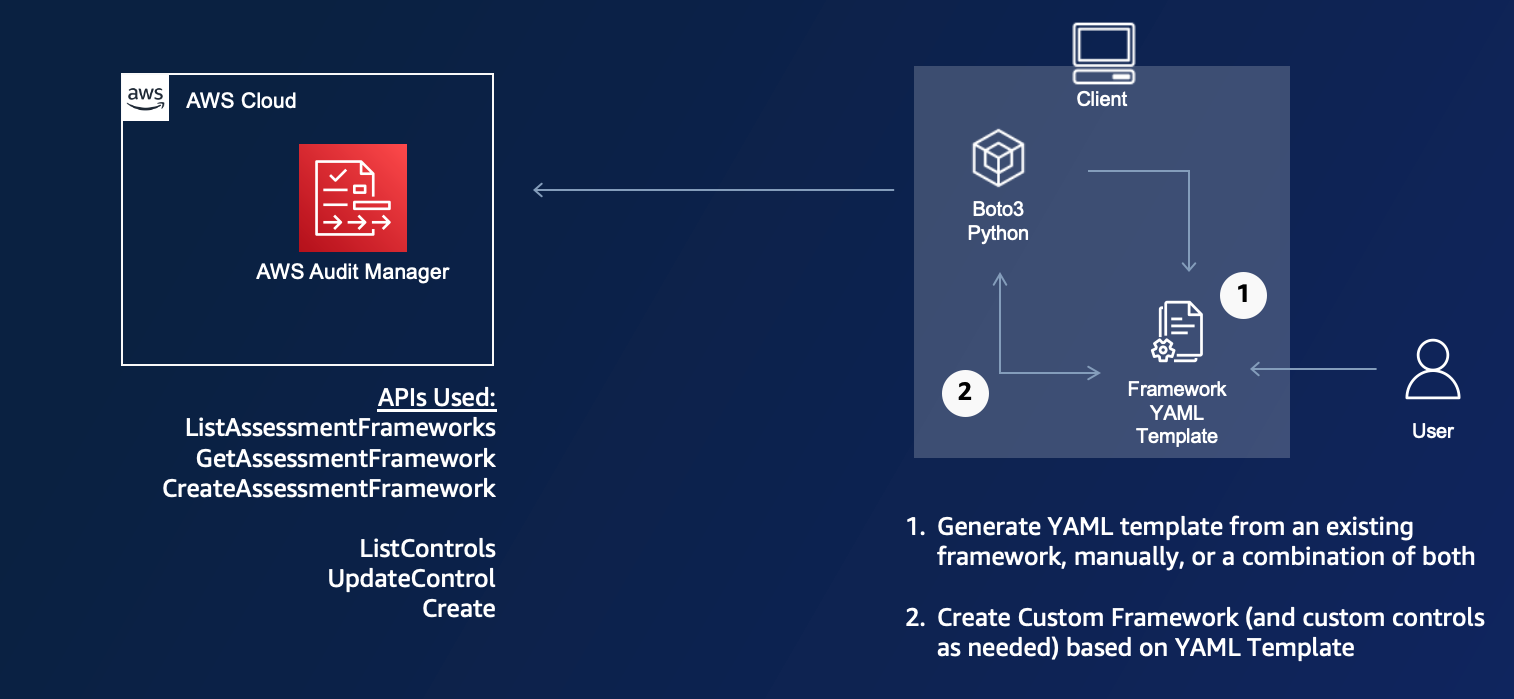
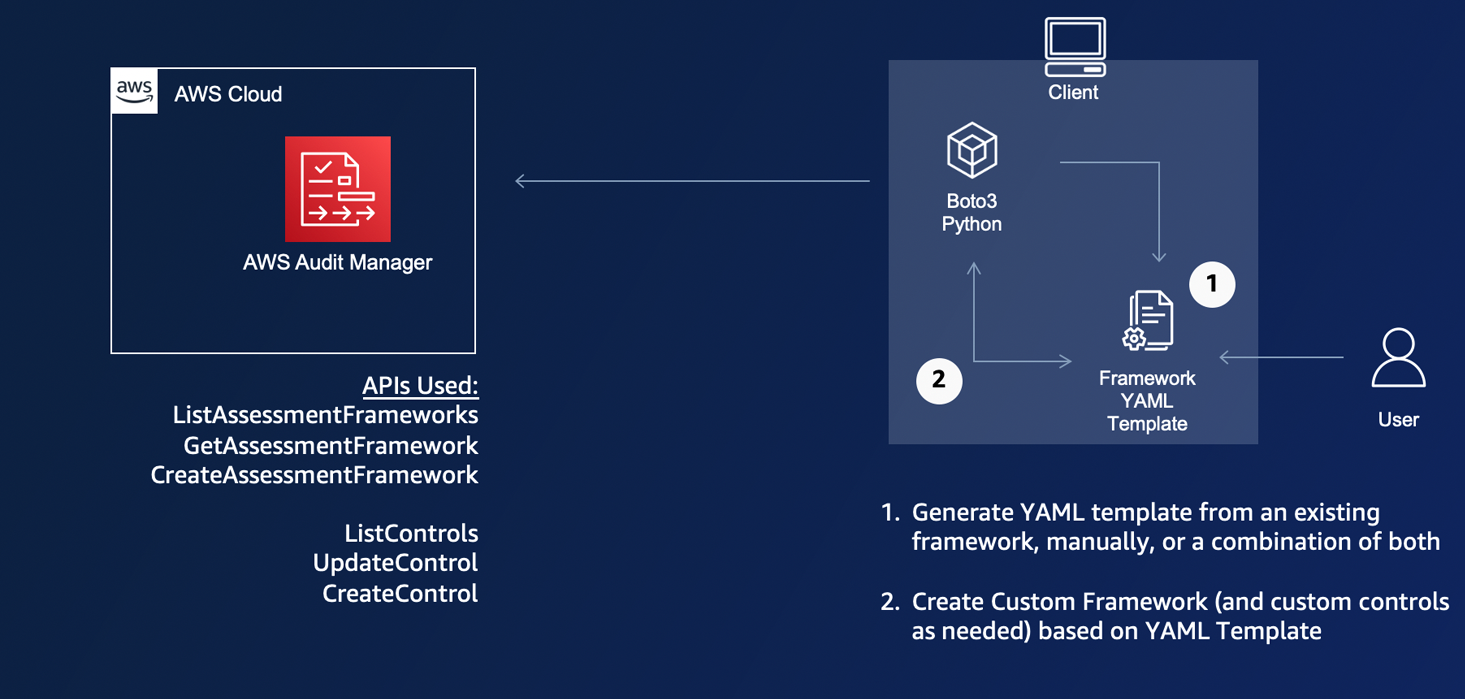
Corrected an image file and added requirements.txt

diff --git a/README.md b/README.md
@@ -73,7 +73,10 @@ $ python customFramework.py --jobName Generate-YAML-Framework --existingFramewor
 1. Have an AWS account with Audit Manager enabled
 2. Confirm you have an environment to make AWS API calls with. (Cloud9 or local)
 3. Clone the provided sample code to your working environment (local computer or cloud9) (LINK)
-4. Ensure you have updated Python (Specifically version 3.5 or higher), Boto3, and Botocore installed in the environment
+4. Ensure you have updated Python (Specifically version 3.5 or higher), Boto3, pyyaml, and Botocore installed in the environment. You can also run below command to install these libraries:
+```
+pip install -r requirements.txt
+```
 
 ## Create a Custom Framework in the Audit Manager UI
 
